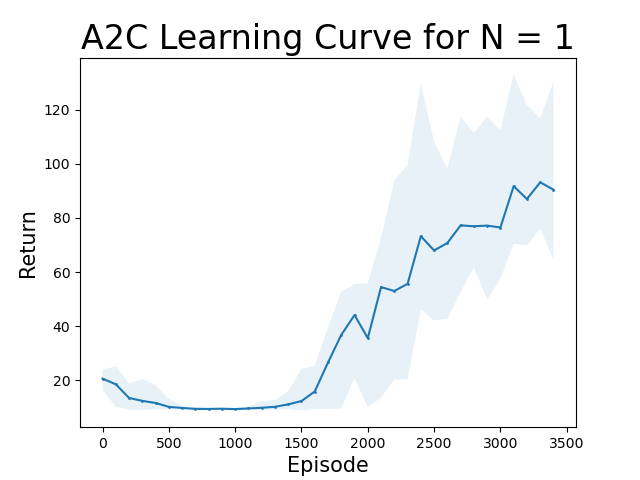
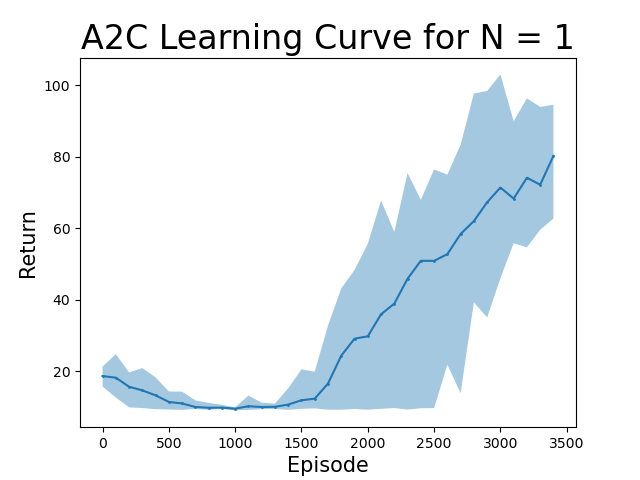
Update plots with higher alpha

diff --git a/hw2/hw2_code/pytorch/a2c/a2c.py b/hw2/hw2_code/pytorch/a2c/a2c.py
@@ -110,5 +110,6 @@ class A2C(object):
         actor_loss.backward()
         self.actor_optimizer.step()
         self.critic_optimizer.zero_grad()
-        critic_loss.backward()
-        self.critic_optimizer.step()
+        if self.type != "Reinforce":
+            critic_loss.backward()
+            self.critic_optimizer.step()

diff --git a/hw2/hw2_code/pytorch/dqn/dqn.py b/hw2/hw2_code/pytorch/dqn/dqn.py
@@ -297,7 +297,7 @@ def main(args):
     maxs = np.max(returns_per_trial, axis=0) # (20,)
     mins = np.min(returns_per_trial, axis=0) # (20,)
 
-    plt.fill_between(ks, mins, maxs, alpha=0.1)
+    plt.fill_between(ks, mins, maxs, alpha=0.4)
     plt.plot(ks, avs, '-o', markersize=1)
 
     plt.xlabel('Episode', fontsize = 15)

diff --git a/hw2/hw2_code/pytorch/a2c/run.py b/hw2/hw2_code/pytorch/a2c/run.py
@@ -102,7 +102,7 @@ def main_a2c(args):
     maxs = np.max(res, axis=0)
     mins = np.min(res, axis=0)
 
-    plt.fill_between(ks, mins, maxs, alpha=0.1)
+    plt.fill_between(ks, mins, maxs, alpha=0.4)
     plt.plot(ks, avs, '-o', markersize=1)
 
     plt.xlabel('Episode', fontsize = 15)
